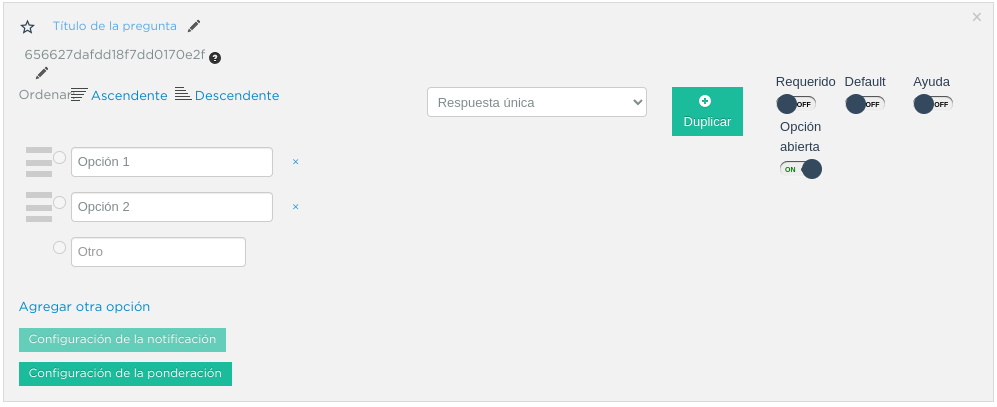
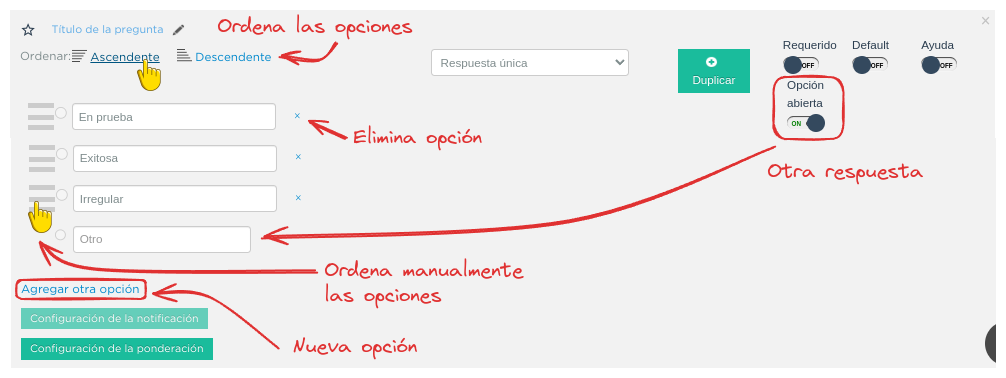
Actualización campo de opcion multiple

diff --git a/content/Usuario/Formas/index.rst b/content/Usuario/Formas/index.rst
@@ -295,57 +295,76 @@ Campo respuesta múltiple
 
 Un campo de respuesta múltiple resulta útil cuando se busca recopilar datos sobre preferencias, habilidades o situaciones en las que las respuestas no son excluyentes entre sí. 
 
-Dos configuraciones comunes que comparten la mayoría de los campos de respuesta múltiple son la ponderación y el envío de notificaciones:
-
-.. _pond:
-
-**Ponderación**
-
-La ponderación es el proceso de asignar un peso o valor relativo a cada opción seleccionada por el usuario.
-
-Para habilitar la opción de ``Configuración de la ponderación``, debe comenzar por la configuración en `Opciones Generales <#ponderacion-conf>`_ :octicon:`report;1em;sd-text-info`, seguido de los siguientes pasos:
-
-1. Seleccione el botón ``Configuración de la ponderación``.
-2. Elija la respuesta en el selector correspondiente.
-3. Especifique el puntaje (si seleccionó por puntos) en el recuadro inferior.
-4. Haga clic en ``Agregar opción``. La respuesta aparecerá en el recuadro inferior. Repita el proceso según el número de respuestas del campo.
-5. Presione ``Guardar``.
-
-.. image:: /imgs/Formas/Formas9.jpg
-    :height: 400px
-    :width: 600px
-
-**Envío de notificaciones**
-
-Para configurar las notificaciones y habilitar el envío de notificaciones, consulte la `configuración de Email <#configuracion>`_ :octicon:`report;1em;sd-text-info` en el campo email.
-        
-En el siguiente recuadro, podrá encontrar los tipo de respuesta múltiple. Considere los puntos anteriores:
+Consulte las siguientes pestañas donde podrá encontrar los tipos de respuesta múltiple disponibles:
 
 .. tab-set::
 
     .. tab-item:: Respuesta única
 
-        Este campo se utiliza para seleccionar una sola opción de una lista de opciones proporcionadas. Considere activar la ``opción abierta`` para que el usuario pueda ingresar otra respuesta.
+        Este campo se utiliza para seleccionar **una opción** de una lista de opciones proporcionadas. 
+        
+        - Para añadir una nueva respuesta, presione ``Agregar otra opción``.
+        - Para permitir al usuario ingresar una respuesta personalizada, active el bullet ``Opción abierta``.
+        - Para ordenar alfabéticamente (A-Z o de la Z-A) las respuestas, presione ``Ascendente`` o ``Descendente``.
+        - Si lo necesita, ordene manualmente las respuestas arrastrando la opción al lugar deseado.
+        - Para eliminar una respuesta, presione el botón ``x`` ubicado al lado de la opción.
         
         .. image:: /imgs/Formas/Formas9.0.png
           
     .. tab-item:: Respuesta múltiple
 
-        Permite seleccionar más de una opción de la lista proporcionada. De la misma forma, tenga en consideración activar la ``opción abierta`` para que el usuario pueda ingresar otra respuesta.
+        Este campo permite seleccionar **más de una opción** de la lista proporcionada. 
+
+        - Para agregar otra respuesta, use ``Agregar otra opción``.
+        - Active ``Opción abierta`` para respuestas personalizadas.
+        - Ordene alfabéticamente con ``Ascendente`` o ``Descendente``.
+        - Reordene arrastrando las respuestas.
+        - Elimine opciones con el botón ``x``.
 
         .. image:: /imgs/Formas/Formas9.1.png
 
     .. tab-item:: Sí/No
 
-        Este campo simplifica las opciones de respuesta a solo dos: ``Sí`` o ``No``. Es decir, sólo se puede elegir una de las respuestas.
-        
+        Este campo simplifica las opciones de respuesta a solo **Sí** o **No**,  donde solo se puede elegir una respuesta.
+
+        - Ordene alfabéticamente con ``Ascendente`` o ``Descendente``.
+        - Ordene manualmente arrastrando las respuestas.
+        - Elimine una respuesta con el botón ``x``.
+
         .. image:: /imgs/Formas/Formas9.2.png
 
     .. tab-item:: Selecciona un campo
 
-        Se utiliza para crear menús desplegables o listas de opciones donde los usuarios deben seleccionar una respuesta.
+        Este campo se utiliza para mostrar las opciones en un selector desplegable, donde los usuarios deben seleccionar una respuesta.
+
+        - Para agregar otra respuesta, use ``Agregar otra opción``.
+        - Ordene alfabéticamente con ``Ascendente`` o ``Descendente``.
+        - Reordene arrastrando las respuestas.
+        - Elimine opciones con el botón ``x``.
 
         .. image:: /imgs/Formas/Formas9.3.png
+
+.. _pond:
+
+Ponderación
+~~~~~~~~~~~
+
+La ponderación es el proceso de asignar un peso o valor relativo a cada opción seleccionada por el usuario. Esta configuración es exclusiva de los campos de respuesta múltiple. Siga los siguientes pasos:
+
+1. Habilite la opción de la configuración de la ponderación en `Opciones Generales <#ponderacion-conf>`_ :octicon:`report;1em;sd-text-info` y seleccione el método de calificación.
+2. Seleccione ``Configuración de la ponderación`` del campo de respuesta multiple.
+3. Elija la respuesta en el selector correspondiente.
+4. Especifique el puntaje (si seleccionó por puntos) en el recuadro inferior.
+5. Haga clic en ``Agregar opción``. La respuesta aparecerá en el recuadro inferior. Repita el proceso según el número de respuestas del campo.
+6. Presione ``Guardar``.
+
+.. image:: /imgs/Formas/Formas9.png
+
+Envío de notificaciones
+~~~~~~~~~~~~~~~~~~~~~~~
+
+Para configurar las notificaciones y habilitar el envío de notificaciones, consulte la `configuración de Email <#configuracion>`_ :octicon:`report;1em;sd-text-info` en el campo email.
+        
 
 .. _campo-numerico:
 
